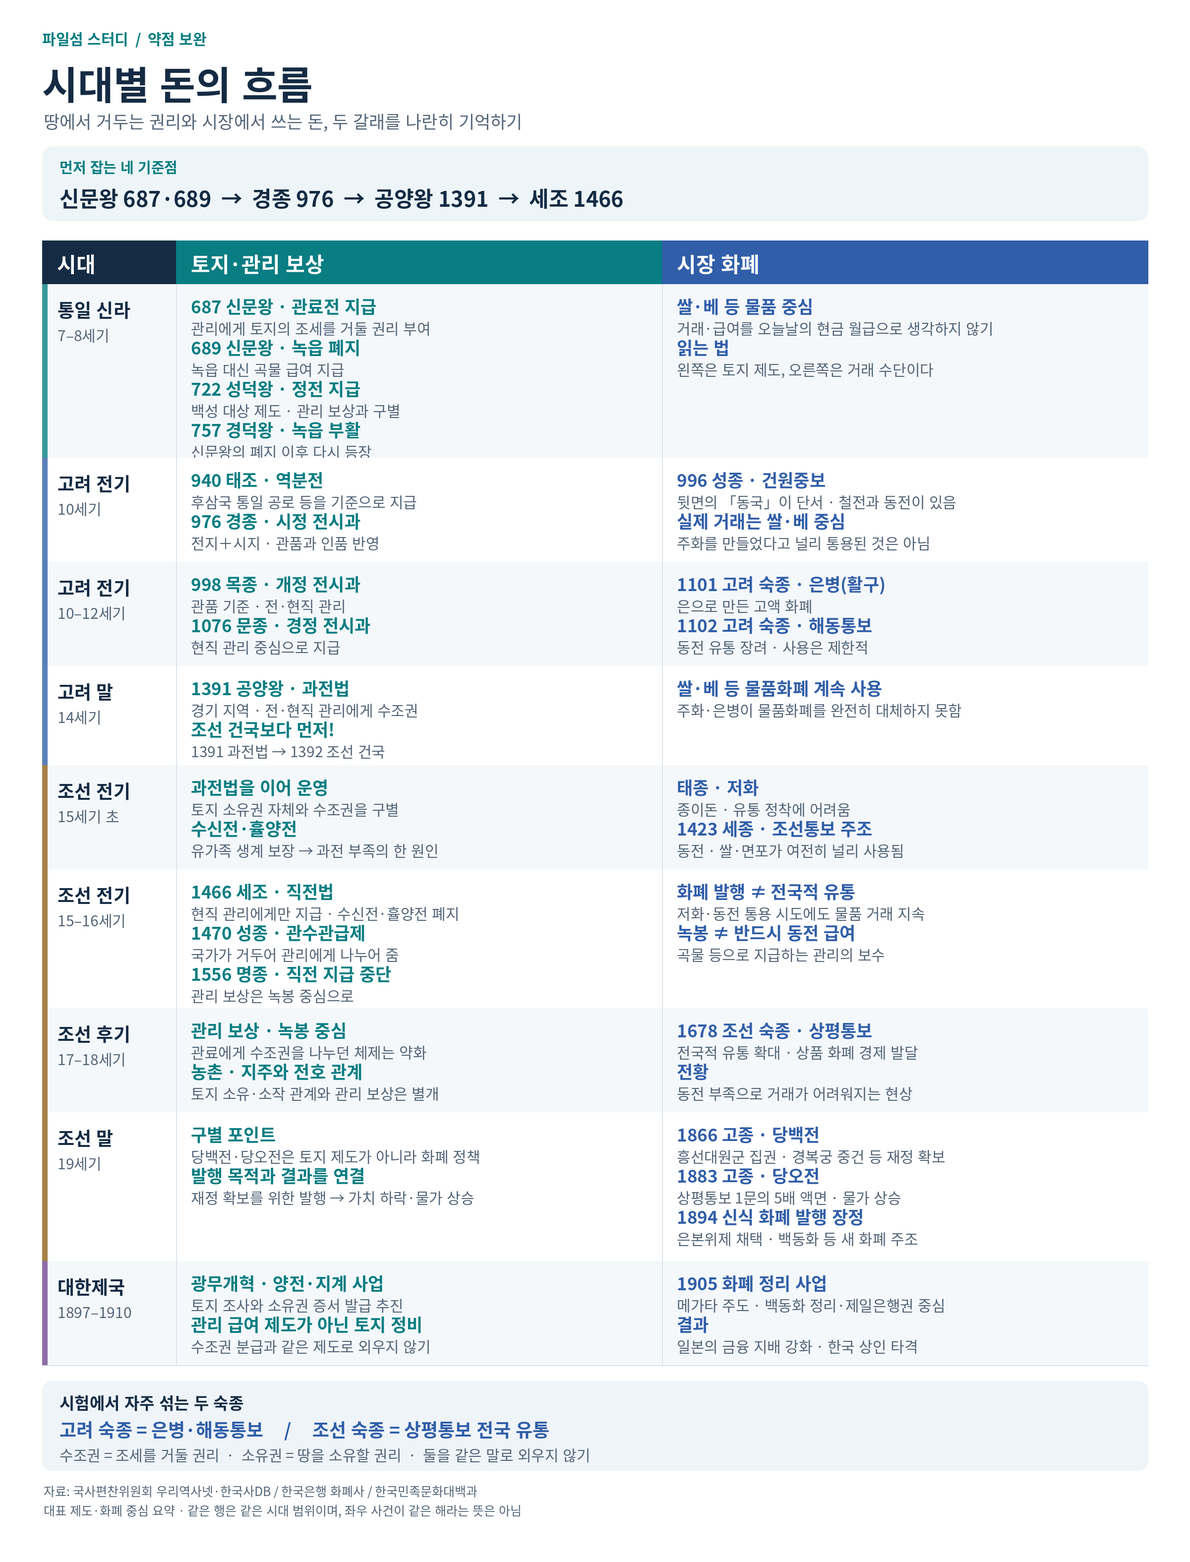
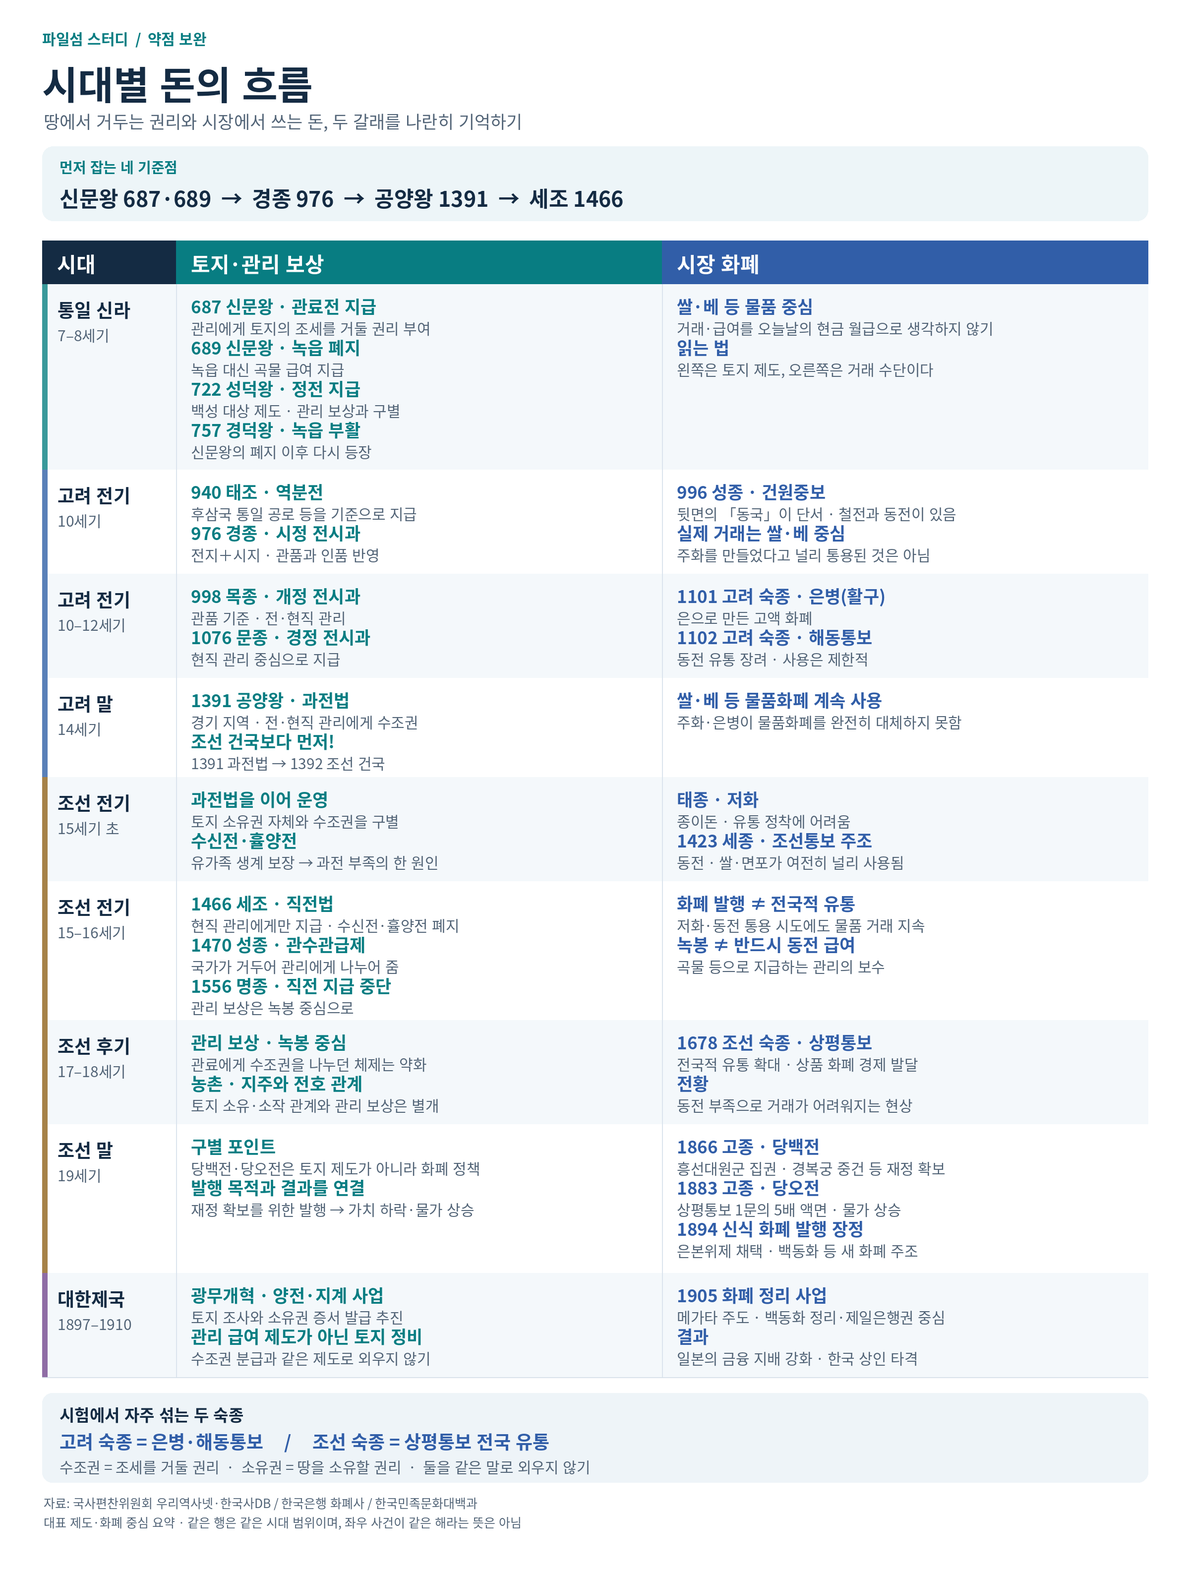
개선: 오답 복습 결과 강조와 돈의 흐름 표 여백 수정

diff --git a/index.html b/index.html
@@ -47,7 +47,7 @@
   <link rel="stylesheet" href="media/grade-feedback.css">
 <link rel="stylesheet" href="media/toeic-cbt.css?v=number-progress-20261026-single-explanation-20261025"><link rel="stylesheet" href="media/toeic-history.css"><link rel="stylesheet" href="media/toeic-audio.css"><link rel="stylesheet" href="media/lc-playlist.css?v=world-navigation-20261023b">
   <link rel="stylesheet" href="media/review-menu.css">
-  <link rel="stylesheet" href="media/cbt-results.css?v=match-dock-20261118">
+  <link rel="stylesheet" href="media/cbt-results.css?v=review-summary-20261118">
   <link rel="stylesheet" href="media/history-weakness.css?v=20261118-money">
   <script defer src="media/history-weakness-pdf.js?v=20261118"></script>
   <link rel="stylesheet" href="media/era-culture.css"><link rel="stylesheet" href="media/quiz-resources.css">
@@ -292,7 +292,7 @@
   <script src="media/colonial-summary.js"></script>
   <script src="media/lecture-notes.js"></script>
   <script src="media/lecture-terms.js"></script><script src="media/lecture-notes-opening.js"></script><script src="media/lecture-terms-opening.js"></script><script src="media/lecture-flow-goryeo.js"></script><script src="media/lecture-flow-joseon.js"></script><script src="media/lecture-flow-islands.js"></script><script src="media/lecture-flow-colonial.js"></script><script src="media/lecture-flow-modern.js"></script><script src="media/lecture-flow-prehistory.js"></script><script src="media/lecture-flow-gojoseon.js"></script><script src="media/lecture-flow-nambuk.js"></script><script src="media/lecture-flow-samguk.js"></script><script src="media/quiz-catalog.js"></script><script src="media/era-recall-quiz.js"></script><script src="media/era-recall-integration.js"></script><script src="media/reviewed-quiz.js"></script><script src="media/reviewed-quiz-integration.js"></script><script src="media/unified-quiz-selection.js"></script><script src="media/era-culture.js"></script><script src="media/quiz-resources.js"></script><script src="media/quiz-review.js"></script><script src="media/era-study-review.js"></script><script src="media/exam-brief-core.js"></script><script src="media/quiz-brief-feedback.js"></script><script src="media/exam-pool.js"></script><script src="media/learning-progress.js"></script><script src="media/run-controller.js"></script><script src="media/cbt-classification79.js"></script>
-<link rel="stylesheet" href="media/battle-island.css?v=weak-draw-20261028"><link rel="stylesheet" href="media/battle-study-type.css?v=cbt-type-20261027"><link rel="stylesheet" href="media/battle-visual.css?v=digital-arena-20261027"><link rel="stylesheet" href="media/battle-impact.css?v=material-impact-20261027"><link rel="stylesheet" href="media/battle-materials.css?v=stage-fit-20261028"><script src="media/battle-materials.js?v=solar-missile-20261028"></script><script src="media/battle-part6.js?v=part6-layout-20261027"></script><script src="media/battle-wrongnotes.js?v=ordered-mock-20261028"></script><link rel="stylesheet" href="media/battle-collection-visuals.css?v=20261029"><script src="media/battle-collection-visuals.js?v=20261029"></script><link rel="stylesheet" href="media/collection-life.css?v=baby-blink-20261101"><script src="media/collection-life.js?v=baby-blink-20261101"></script><link rel="stylesheet" href="media/battle-connection.css?v=connection-light-20261029c"><script src="media/battle-connection.js?v=connection-light-20261029c"></script><script src="media/battle-island.js?v=site-invites-20261029"></script><link rel="stylesheet" href="media/battle-invites.css?v=site-invites-20261029"><script src="media/battle-invites.js?v=site-invites-20261029"></script><script src="media/cbt-classifications.js"></script><script src="media/cbt-result-analysis.js"></script><script src="media/cbt-explanation-data.js"></script><script src="media/cbt-explanation80-data.js?v=study-memos-20261118"></script><script src="media/cbt-explanations.js"></script><script src="media/formal-exams.js?v=match-dock-20261118"></script><link rel="stylesheet" href="media/hongmungwan.css"><script src="media/hongmungwan.js"></script><script src="media/hongmungwan-pdf.js"></script><script src="media/cbt-wrong-notebook.js"></script><link rel="stylesheet" href="media/cbt-wrong-print.css"><script src="media/cbt-wrong-print.js"></script><script src="media/cbt-round-study-memos-data.js?v=all-rounds-20261118"></script><script src="media/cbt-round-materials.js?v=all-round-study-20261118"></script><script src="media/cbt-wrong-pdf.js"></script><script src="media/read-progress.js"></script><script src="media/activity-stats.js"></script><script src="media/api-client.js?v=visual-release-20261030"></script><script src="/media/member-session-gate.js"></script><script src="media/app-update.js?v=startup-guard-20261029"></script><script src="media/auth-session.js"></script><script src="media/request-status.js?v=battle-quiet-20261026"></script><link rel="stylesheet" href="media/rainbow-island.css?v=visual-release-20261030"><script src="media/rainbow-island.js?v=visual-release-20261030"></script><script src="media/characters.js?v=visual-release-20261030"></script><script src="media/study-activity.js?v=unified-20261028"></script><script src="media/my-records.js?v=compact-modal-20261028"></script><script src="media/inquiry-ui.js"></script><script src="media/learning-reset.js"></script><script src="media/account-ui.js?v=visual-release-20261030"></script><script src="media/hall-of-fame.js?v=medal-rows-20261029"></script><link rel="stylesheet" href="media/hall-of-fame.css?v=medal-rows-20261029"><script src="media/account-sync.js"></script><script src="media/review-book/data/unit01.js"></script><script src="media/review-book/data/unit02.js"></script><script src="media/review-book/data/unit03.js"></script><script src="media/review-book/data/unit04.js"></script><script src="media/review-book/data/unit05.js"></script><script src="media/review-book/data/unit06.js"></script><script src="media/review-book/data/unit07.js"></script><script src="media/review-memory-cards.js"></script><script src="media/review-ancient-cards.js"></script><script src="media/review-goryeo-cards.js"></script><script src="media/review-joseon-cards.js"></script><script src="media/review-opening-cards.js"></script><script src="media/review-modern-cards.js"></script><script src="media/review-colonial-cards.js"></script><script src="media/period-reviews.js"></script><script src="media/joseon-core-review.js"></script>
+<link rel="stylesheet" href="media/battle-island.css?v=weak-draw-20261028"><link rel="stylesheet" href="media/battle-study-type.css?v=cbt-type-20261027"><link rel="stylesheet" href="media/battle-visual.css?v=digital-arena-20261027"><link rel="stylesheet" href="media/battle-impact.css?v=material-impact-20261027"><link rel="stylesheet" href="media/battle-materials.css?v=stage-fit-20261028"><script src="media/battle-materials.js?v=solar-missile-20261028"></script><script src="media/battle-part6.js?v=part6-layout-20261027"></script><script src="media/battle-wrongnotes.js?v=ordered-mock-20261028"></script><link rel="stylesheet" href="media/battle-collection-visuals.css?v=20261029"><script src="media/battle-collection-visuals.js?v=20261029"></script><link rel="stylesheet" href="media/collection-life.css?v=baby-blink-20261101"><script src="media/collection-life.js?v=baby-blink-20261101"></script><link rel="stylesheet" href="media/battle-connection.css?v=connection-light-20261029c"><script src="media/battle-connection.js?v=connection-light-20261029c"></script><script src="media/battle-island.js?v=site-invites-20261029"></script><link rel="stylesheet" href="media/battle-invites.css?v=site-invites-20261029"><script src="media/battle-invites.js?v=site-invites-20261029"></script><script src="media/cbt-classifications.js"></script><script src="media/cbt-result-analysis.js"></script><script src="media/cbt-explanation-data.js"></script><script src="media/cbt-explanation80-data.js?v=study-memos-20261118"></script><script src="media/cbt-explanations.js"></script><script src="media/formal-exams.js?v=match-dock-20261118"></script><link rel="stylesheet" href="media/hongmungwan.css"><script src="media/hongmungwan.js"></script><script src="media/hongmungwan-pdf.js"></script><script src="media/cbt-wrong-notebook.js"></script><link rel="stylesheet" href="media/cbt-wrong-print.css"><script src="media/cbt-wrong-print.js"></script><script src="media/cbt-round-study-memos-data.js?v=all-rounds-20261118"></script><script src="media/cbt-round-materials.js?v=review-summary-20261118"></script><script src="media/cbt-wrong-pdf.js"></script><script src="media/read-progress.js"></script><script src="media/activity-stats.js"></script><script src="media/api-client.js?v=visual-release-20261030"></script><script src="/media/member-session-gate.js"></script><script src="media/app-update.js?v=startup-guard-20261029"></script><script src="media/auth-session.js"></script><script src="media/request-status.js?v=battle-quiet-20261026"></script><link rel="stylesheet" href="media/rainbow-island.css?v=visual-release-20261030"><script src="media/rainbow-island.js?v=visual-release-20261030"></script><script src="media/characters.js?v=visual-release-20261030"></script><script src="media/study-activity.js?v=unified-20261028"></script><script src="media/my-records.js?v=compact-modal-20261028"></script><script src="media/inquiry-ui.js"></script><script src="media/learning-reset.js"></script><script src="media/account-ui.js?v=visual-release-20261030"></script><script src="media/hall-of-fame.js?v=medal-rows-20261029"></script><link rel="stylesheet" href="media/hall-of-fame.css?v=medal-rows-20261029"><script src="media/account-sync.js"></script><script src="media/review-book/data/unit01.js"></script><script src="media/review-book/data/unit02.js"></script><script src="media/review-book/data/unit03.js"></script><script src="media/review-book/data/unit04.js"></script><script src="media/review-book/data/unit05.js"></script><script src="media/review-book/data/unit06.js"></script><script src="media/review-book/data/unit07.js"></script><script src="media/review-memory-cards.js"></script><script src="media/review-ancient-cards.js"></script><script src="media/review-goryeo-cards.js"></script><script src="media/review-joseon-cards.js"></script><script src="media/review-opening-cards.js"></script><script src="media/review-modern-cards.js"></script><script src="media/review-colonial-cards.js"></script><script src="media/period-reviews.js"></script><script src="media/joseon-core-review.js"></script>
 <script src="media/review-player.js"></script><script src="media/focused-review.js"></script><script src="media/shared-core-review.js"></script><script src="media/mixed-review-bank.js"></script><script src="media/mixed-review-quiz.js"></script><script src="media/goryeo-joseon-comparison.js"></script><script src="media/integrated-blank-bank.js"></script><script src="media/integrated-blank-practice.js"></script><script src="media/confusion-review-data.js"></script><script src="media/confusion-review.js"></script><script src="media/review-menu.js"></script><script src="media/quiz-progress.js"></script><script src="media/joseon-full-summary-data.js"></script><script src="media/era-full-summary-data.js"></script><script src="media/summary-ruler-groups.js"></script><script src="media/joseon-full-summary.js"></script><script src="media/summary-eras.js"></script><script src="media/summary-overview.js"></script><script src="media/private-textbook.js"></script><script src="media/textbook-figure-groups.js"></script><link rel="stylesheet" href="media/blank-recall.css"><script src="media/blank-recall.js"></script><script src="media/textbook-semantic.js"></script><script src="media/era-quiz-review-pdf.js"></script><script src="media/source-grading-v2.js"></script><script src="media/source-grading-v2-session.js"></script><script src="media/textbook-source-quiz.js"></script><script src="media/history81-workspace.js"></script><script src="media/era-study-progress.js"></script><script src="media/textbook-four-choice.js"></script><script src="media/textbook-semantic-library.js"></script><script src="media/textbook-source-summary.js"></script><script src="media/history81-term-data.js"></script><script src="media/history81-terms.js"></script><script src="media/history81-verified-glossary.js"></script><script src="media/history81-glossary.js"></script><script src="media/joseon-script-reader.js"></script><script src="media/joseon-script-session.js"></script><script src="media/joseon-script-transport.js"></script><script src="media/joseon-script-app.js"></script><script src="media/goryeo-script-structure-data.js"></script><script src="media/goryeo-script-presentation-data.js"></script><script src="media/goryeo-script-structure.js"></script><script src="media/goryeo-script-reader.js"></script><script src="media/goryeo-script-session.js"></script><script src="media/goryeo-script-transport.js"></script><script src="media/goryeo-script-app.js"></script><script src="media/opening-script-structure.js"></script><script src="media/opening-script-reader.js"></script><script src="media/opening-script-session.js"></script><script src="media/opening-script-transport.js"></script><script src="media/opening-script-app.js"></script><script src="media/toeic-practice.js"></script><script src="media/toeic-recall.js"></script><script src="media/grade-feedback.js"></script><script src="media/toeic-example-text.js"></script><script src="media/word-checks.js?v=async-scenes-20261023b"></script><script src="media/vocabulary-labels.js"></script><script src="media/vocabulary-paraphrases.js?v=deem-20261024"></script><script src="media/toeic-notes.js?v=video-ticker-20261101"></script><script src="media/toeic-grammar-data.js?v=content-quality-20261025"></script><script src="media/connector-recall-board.js?v=depth-round3-20261023"></script><script src="media/toeic-grammar.js?v=grammar-clean-20261027"></script><script src="media/toeic-grammar-practice-data.js"></script><script src="media/toeic-grammar-connectors-data.js"></script><script src="media/weakness-records.js?v=content-quality-20261025"></script><script src="media/weakness-practice.js?v=content-quality-20261025"></script><script src="media/toeic-grammar-practice.js?v=focus-five-500-20261023"></script><script src="media/toeic-review-timing.js"></script><script src="media/toeic-research-data.js"></script><script src="media/toeic-supplement.js?v=deem-20261024"></script><script src="media/toeic-transfer-data.js"></script><script src="media/toeic-transfer.js?v=world-navigation-20261023b"></script><script src="media/lc-transcript.js"></script>
   <script src="media/lc-audio-files.js"></script><script src="media/lc-playlist.js?v=player-clean-20261027"></script><script src="media/lc-player.js?v=subject-only-20261028"></script><script src="media/toeic-audio.js?v=player-redesign-20261026"></script><script src="media/toeic-study-links.js"></script>
   <link rel="stylesheet" href="media/learning-reader.css?v=readability-20261028"><link rel="stylesheet" href="media/ux-polish.css?v=20261115"><script src="media/passage-layouts.js?v=readability-20261028"></script><script src="media/history-readable.js?v=readability-20261028"></script><script src="media/learning-reader.js?v=readability-20261028"></script>
@@ -428,7 +428,7 @@
       ];
       var base='media/history-weakness/';
       var cards=materials.map(function(row,i){
-        var img=base+row[0]+'.png',name=row[1],title=(i+1)+'. '+name;
+        var img=base+row[0]+'.png'+(row[0]==='money-history'?'?v=20261118b':''),name=row[1],title=(i+1)+'. '+name;
         return '<article class="history-weakness-card"><h2>'+title+'</h2><p>'+row[2]+'</p>'+
           '<a class="history-weakness-preview" href="'+img+'" target="_blank" rel="noopener" aria-label="'+name+' 확대해서 보기"><img loading="lazy" decoding="async" src="'+img+'" alt="'+name+' 미리 보기"></a>'+
           '<div class="history-weakness-links"><button type="button" data-chart-pdf="open" aria-label="'+name+' PDF 열기">PDF 열기</button>'+

diff --git a/media/cbt-round-materials.js b/media/cbt-round-materials.js
@@ -476,27 +476,36 @@ function mount(host,options){
  }
  function score(){
   if(!current()||!items.length)return;clear();header();
-  var right=0,wrong=0,empty=0,table=section('section','fe-round-review-result');
-  var heading=el('h3','복습 결과');heading.tabIndex=-1;table.appendChild(heading);
-  var list=section('ul','fe-round-review-breakdown');
+  var right=0,wrong=0,empty=0,table=section('section','fe-round-review-result fe-round-review-final');
+  var misses=section('ul','fe-round-review-breakdown fe-round-review-misses');
+  var list=section('ul','fe-round-review-breakdown fe-round-review-all-results');
   items.forEach(function(q){
    var chosen=selected[q.questionId],ok=chosen===q.review.correctOptionId;
    if(!chosen)empty++;else if(ok)right++;else wrong++;
    var row=section('li',!chosen?'is-empty':ok?'is-correct':'is-wrong');
    row.append(el('span',(all?'제'+q.exam+'회 ':'')+q.number+'번'),el('strong',!chosen?'미풀이':ok?'O 정답':'X 오답'));list.appendChild(row);
+   if(chosen&&!ok)misses.appendChild(row.cloneNode(true));
   });
-  var percent=String(Number((right/items.length*100).toFixed(2)));
-  table.append(el('p','정답률 '+percent+'%'),el('p','정답 '+right+' · 오답 '+wrong+' · 미풀이 '+empty+' · 전체 '+items.length),list);
-  var reached=goalReached(right,items.length);
+  var reached=goalReached(right,items.length),percent=String(Number((right/items.length*100).toFixed(2)));
+  var summary=section('section','fe-round-review-summary '+(reached?'is-reached':'is-retry'));
+  var heading=el('h3','복습 결과');heading.tabIndex=-1;summary.appendChild(heading);
+  var pct=section('p','fe-round-review-percent');pct.append(el('span','정답률 '),el('strong',percent+'%'));summary.appendChild(pct);
   var goal=section('div','fe-round-review-goal '+(reached?'is-reached':'is-retry'));
-  if(reached){var badge=el('span','🏆');badge.setAttribute('aria-hidden','true');goal.appendChild(badge);}
-  else{var patamon=el('img');patamon.src='/media/characters/patamon-crying-v1.webp';patamon.alt='';patamon.width=40;patamon.height=40;goal.appendChild(patamon);}
-  goal.appendChild(el('p',reached?(all?'목표 '+GOAL_PERCENT+'% 달성! 전체 오답 복습을 마쳤어요.':'목표 '+GOAL_PERCENT+'% 달성! 다음 회차로 넘어가도 돼요.'):'목표 '+GOAL_PERCENT+'% 미달. 같은 문제를 다시 풀어요.'));table.appendChild(goal);
+  var caption=section('p','fe-round-review-goal-text');
+  caption.append(el('strong',reached?'목표 달성!':'다시 풀기'),
+   el('small',reached?(all?'목표 '+GOAL_PERCENT+'% 달성 · 전체 오답 복습 완료':'목표 '+GOAL_PERCENT+'% 달성 · 다음 회차로 넘어가도 돼요.'):
+    '목표 '+GOAL_PERCENT+'% 미달 · 같은 문제를 다시 풀어요.'));
+  goal.appendChild(caption);summary.appendChild(goal);
+  summary.appendChild(section('p','fe-round-review-counts','정답 '+right+' · 오답 '+wrong+' · 미풀이 '+empty+' · 전체 '+items.length));
   var actions=section('div','fe-round-review-result-actions');
   if(reached)actions.appendChild(button(all?'회차 목록으로':'다음 회차 선택',function(){stop();if(options.onBack)options.onBack();}));
   actions.appendChild(button('다시 풀기',restartPractice));
   actions.appendChild(button('풀이 돌아보기',function(){submitted=false;index=0;save();draw(true);}));
-  table.appendChild(actions);
+  summary.appendChild(actions);table.appendChild(summary);
+  var errors=section('section','fe-round-review-errors');errors.appendChild(el('h4','오답 목록'));
+  if(wrong)errors.appendChild(misses);else errors.appendChild(el('p','틀린 문제가 없어요.'));
+  table.appendChild(errors);
+  var details=section('details','fe-round-review-all-details');details.append(el('summary','전체 문항 결과'),list);table.appendChild(details);
   host.appendChild(table);heading.focus();
  }
  function drawVerdict(correct,animate){

diff --git a/media/cbt-results.css b/media/cbt-results.css
@@ -463,6 +463,23 @@ html[data-company-mode=on] #feRoundMaterials .fe-round-review-hand-mark{color:#f
 #feRoundMaterials .fe-round-review-breakdown>li{display:flex;justify-content:space-between;gap:4px;padding:6px;border:1px solid currentColor;border-radius:6px}
 
 #feRoundMaterials .fe-round-review-result-actions{display:flex;flex-wrap:wrap;gap:8px}
+#feRoundMaterials .fe-round-review-final{padding:0;border:0;display:grid;gap:16px}
+#feRoundMaterials .fe-round-review-summary{padding:clamp(14px,3vw,24px);border:1px solid #578488;border-radius:10px;text-align:center;background:#122526;color:#f0fbfc}
+#feRoundMaterials .fe-round-review-summary.is-retry{border-color:#a46d5c;background:#2c2324}
+#feRoundMaterials .fe-round-review-summary h3{font-size:14px;margin:0 0 8px}
+#feRoundMaterials .fe-round-review-percent{display:flex;flex-direction:column;align-items:center;margin:0;line-height:1.15}
+#feRoundMaterials .fe-round-review-percent span{font-size:13px}
+#feRoundMaterials .fe-round-review-percent strong{font-size:clamp(2.4rem,10vw,4rem);font-weight:900;letter-spacing:-.04em}
+#feRoundMaterials .fe-round-review-summary .fe-round-review-goal{justify-content:center;margin:9px 0}
+#feRoundMaterials .fe-round-review-goal-text{margin:0;display:grid;gap:3px}
+#feRoundMaterials .fe-round-review-goal-text strong{font-size:clamp(1.15rem,4vw,1.5rem);color:#8ddf9f}
+#feRoundMaterials .fe-round-review-goal.is-retry .fe-round-review-goal-text strong{color:#ffc39e}
+#feRoundMaterials .fe-round-review-goal-text small{font-size:12px;color:#dfebed}
+#feRoundMaterials .fe-round-review-counts{margin:10px 0;color:#d0dcdd;font-size:12px;overflow-wrap:anywhere}
+#feRoundMaterials .fe-round-review-summary .fe-round-review-result-actions{justify-content:center}
+#feRoundMaterials .fe-round-review-errors h4{margin:0 0 8px}
+#feRoundMaterials .fe-round-review-all-details>summary{cursor:pointer;line-height:34px;font-size:13px}
+
 #feRoundMaterials .fe-round-review-top-actions,
 #feRoundMaterials .fe-round-review-heading{display:flex;align-items:center;gap:8px}
 #feRoundMaterials .fe-round-review-top-actions{flex-wrap:wrap}

diff --git a/CHANGELOG.md b/CHANGELOG.md
@@ -1,3 +1,7 @@
+## 0.13.7-beta
+
+- 오답 복습 최종 결과의 정답률과 목표 달성/다시 풀기를 상단 카드에 크게 표시하고, 그 아래에 오답만 먼저 모아 보여 줍니다. 전체 문항 결과는 펼쳐 확인할 수 있습니다.
+
 ## 0.13.6-beta
 
 - 약점 보완에 시대별 돈의 흐름을 추가했습니다. 토지 수조권·관리 보수와 실제 화폐를 시대별로 나란히 볼 수 있으며 확대 보기와 PDF 저장을 지원합니다.
